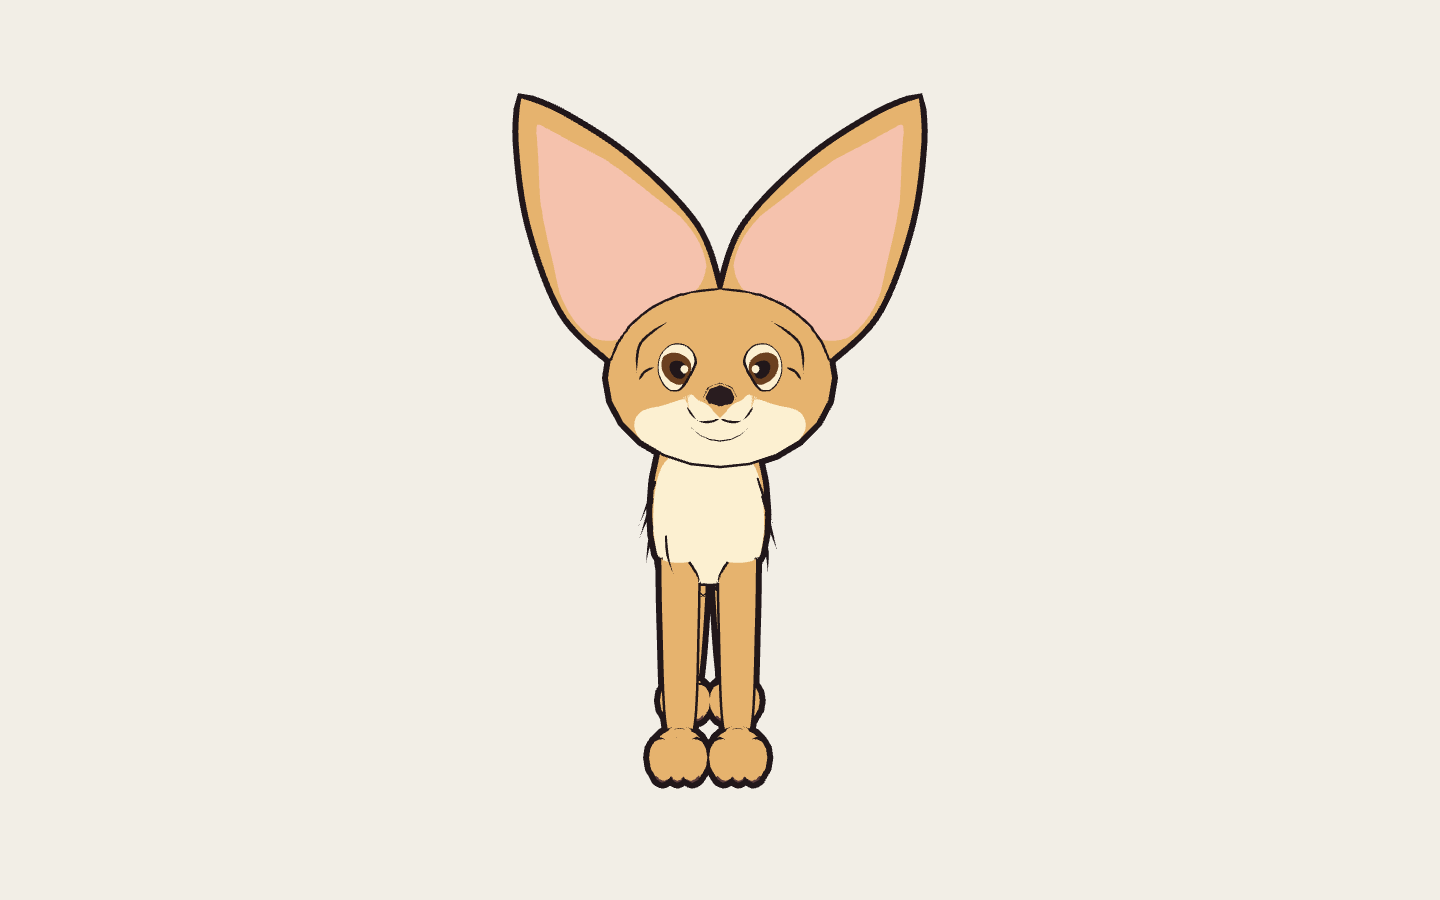
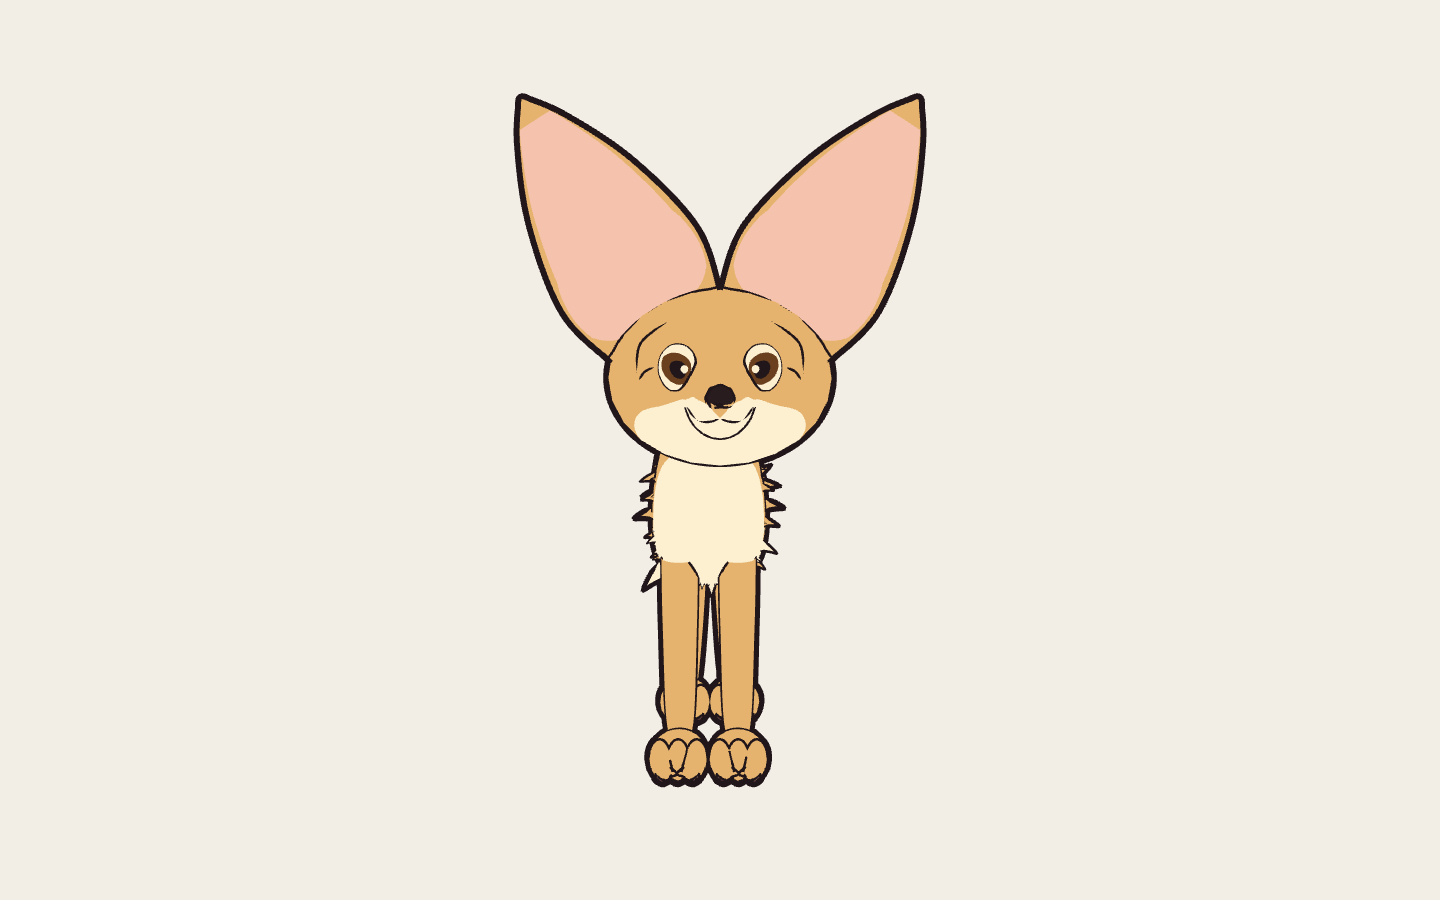
Close round 1: move boards 9 and 10 to verifiable and render the look probe again

diff --git a/docs/work/boards.md b/docs/work/boards.md
@@ -62,8 +62,8 @@ Not a screen, so it has no board in the artifact.
 
 | Board | State | Verify |
 | --- | --- | --- |
-| 9 Color and regions | building | Run: `./gradlew :app:run`. Do: open `examples/fennec.json`. See: every pane in color, fur with cream chest, muzzle and cheeks, pink inner ears. Do: arm Fill, set Mirror on, press a leg. See: both legs and the tree's swatch take the slot; set Area in the drawer and press the belly, which alone fills. Do: arm Brush, set Softness, drag from a leg up onto the torso. See: the stroke grows under the pointer with no dip at the socket, and the other leg mirrors it; one Undo takes it back. Do: arm Region border, drag a closed loop across a leg and the torso. See: a crisp region with an inked border and its row in the drawer, whose toggle takes the ink off. Do: pick a slot and drag the picker. See: everything naming it recolors. Press the Two-tone tile. See: the panes change. Test: `./gradlew :screens-surface:test --tests "*PaintSections*"`, `./gradlew :app:test --tests "*.smoke.ColorPanes*" --tests "*.smoke.SurfaceCrossing*" -Pslow` |
-| 10 Lines and fur | building | Run: `./gradlew :app:run`. Do: open `examples/fennec.json`. Look at Full and the panes, then orbit Full with the middle button. Open Lines on the right rail. Select Torso, press U and drag across the chest in Full, then orbit; move Show near, Spacing and Length in the drawer; press G and drag across the tail. Press D and drag across the chest in Full, then across the torso in Side; press Ctrl Z. Press W and drag along the flank in Full, with the ring on the surface, then orbit until that flank is on the silhouette. Open Marks, click Saddle weight and drag Amount. Click Silhouette. Press X and drag across a stroke. See: thick lines round the figure, thin lines where parts overlap and at sockets, with no ring corners at close zoom, and a heavier line along the back from any angle. Opening Lines arms Line width, and with a line tool armed the strip holds Line width (W), Fur stroke (U), Comb (G), Surface stroke (D), Erase (X) and Mirror, and the drawer reads Silhouette 4.0 px, Interior 2.0 px, Taper 55%, Size 24 px, Amount +60%, Lives on body surface, then the selected part's Fur rule. Tufts break the silhouette only near the edge and move with the body, filled in the palette color under them with ink on their edges and no line across their roots, cream on the chest; each slider changes them as one undo step; the tail's tufts turn where combed. A stroke follows the pointer, stays on the skin as the view turns and tapers at its ends; one undo removes it. The stretch you widened stays heavier as it turns. Marks lists Silhouette and Interior reading auto, Saddle weight +60%, surface strokes and fur by part with their counts. Amount changes the picked weight as you drag, one undo step, and Silhouette opens Lines. Erase takes what it crosses. Test: `./gradlew :geom:desktopTest --tests "*LineGrid*"`, `./gradlew :document:desktopTest --tests "*LineCommand*" --tests "*DocumentFormat*"`, `./gradlew :character:desktopTest --tests "*BodyLines*"`, `./gradlew :screens-surface:test --tests "*SurfaceTools*" --tests "*FurView*" --tests "*GrainField*" --tests "*FurComb*"`, `./gradlew :app:test --tests "*LinesFlow*" --tests "*FurPointerFlow*"`; `./gradlew :app:test --tests "*.smoke.OrbitSmoke*" --tests "*.smoke.LinesSmoke*" --tests "*.smoke.FurSmoke*" -Pslow` leaves `orbit-frames.png`, `lines-fennec-window.png`, `lines-strokes-window.png`, `fur-sheet.png` and `fur-workspace.png` under `app/build/smoke-images` |
+| 9 Color and regions | verifiable | Run: `./gradlew :app:run`. Do: open `examples/fennec.json`. See: every pane in color, fur with cream chest, muzzle and cheeks, pink inner ears. Do: arm Fill, set Mirror on, press a leg. See: both legs and the tree's swatch take the slot; set Area in the drawer and press the belly, which alone fills. Do: arm Brush, set Softness, drag from a leg up onto the torso. See: the stroke grows under the pointer with no dip at the socket, and the other leg mirrors it; one Undo takes it back. Do: arm Region border, drag a closed loop across a leg and the torso. See: a crisp region with an inked border and its row in the drawer, whose toggle takes the ink off. Do: pick a slot and drag the picker. See: everything naming it recolors. Press the Two-tone tile. See: the panes change. Test: `./gradlew :screens-surface:test --tests "*PaintSections*"`, `./gradlew :app:test --tests "*.smoke.ColorPanes*" --tests "*.smoke.SurfaceCrossing*" -Pslow` |
+| 10 Lines and fur | verifiable | Run: `./gradlew :app:run`. Do: open `examples/fennec.json`. Look at Full and the panes, then orbit Full with the middle button. Open Lines on the right rail. Select Torso, press U and drag across the chest in Full, then orbit; move Show near, Spacing and Length in the drawer; press G and drag across the tail. Press D and drag across the chest in Full, then across the torso in Side; press Ctrl Z. Press W and drag along the flank in Full, with the ring on the surface, then orbit until that flank is on the silhouette. Open Marks, click Saddle weight and drag Amount. Click Silhouette. Press X and drag across a stroke. See: thick lines round the figure, thin lines where parts overlap and at sockets, with no ring corners at close zoom, and a heavier line along the back from any angle. Opening Lines arms Line width, and with a line tool armed the strip holds Line width (W), Fur stroke (U), Comb (G), Surface stroke (D), Erase (X) and Mirror, and the drawer reads Silhouette 4.0 px, Interior 2.0 px, Taper 55%, Size 24 px, Amount +60%, Lives on body surface, then the selected part's Fur rule. Tufts break the silhouette only near the edge and move with the body, filled in the palette color under them with ink on their edges and no line across their roots, cream on the chest; each slider changes them as one undo step; the tail's tufts turn where combed. A stroke follows the pointer, stays on the skin as the view turns and tapers at its ends; one undo removes it. The stretch you widened stays heavier as it turns. Marks lists Silhouette and Interior reading auto, Saddle weight +60%, surface strokes and fur by part with their counts. Amount changes the picked weight as you drag, one undo step, and Silhouette opens Lines. Erase takes what it crosses. Test: `./gradlew :geom:desktopTest --tests "*LineGrid*"`, `./gradlew :document:desktopTest --tests "*LineCommand*" --tests "*DocumentFormat*"`, `./gradlew :character:desktopTest --tests "*BodyLines*"`, `./gradlew :screens-surface:test --tests "*SurfaceTools*" --tests "*FurView*" --tests "*GrainField*" --tests "*FurComb*"`, `./gradlew :app:test --tests "*LinesFlow*" --tests "*FurPointerFlow*"`; `./gradlew :app:test --tests "*.smoke.OrbitSmoke*" --tests "*.smoke.LinesSmoke*" --tests "*.smoke.FurSmoke*" -Pslow` leaves `orbit-frames.png`, `lines-fennec-window.png`, `lines-strokes-window.png`, `fur-sheet.png` and `fur-workspace.png` under `app/build/smoke-images` |
 | 11 Face marks | planned | |
 
 ## Make a shot

diff --git a/docs/work/stage-3.md b/docs/work/stage-3.md
@@ -37,19 +37,7 @@ The orchestrator then:
 
 One orchestrating session per sitting. Round 0 is serial and lands on `main` before anything fans out. Later rounds are branches in `.worktrees/`, one per row, landed by rebase, squash and fast-forward with `check` before each landing. The differences table in `docs/work/boards.md` is the list of open bugs; a branch removes each row it fixes. A session that needs a Stretch change lands it in the Stretch repo first and pushes it.
 
-### Round 1, parallel
-
-The look probe's images are in `docs/work/look-probe/`, drawn from `examples/fennec.json`. The fixes it found are in `docs/hld/look.md`: the shadow tone per slot, fur strokes as filled wedges, tufts as strokes and not outline, the silhouette as ribbons, an eye region frame.
-
-| Branch | Modules | Delivers | Board |
-| --- | --- | --- | --- |
-| `surface-strokes` | `screens-surface`, `render`, `geom` | Drawing a stroke on the surface from any camera into anchors; the Surface stroke tool; line rules (silhouette, interior, overlap inked at sockets, taper); the Line width tool and its drawer rows; the Lines and Marks drawers' list rows; the orbit smoke test | 10 |
-| `regions-paint` | `screens-surface`, `render`, `document` | The palette with slot editing and the body plan's defaults; a base slot per part, set by Fill on the part, shown in the Parts tree swatch; Brush, Fill, Region border and Pick color tools; the Color drawer with palette, template color slots, per-border ink toggles; strokes and borders crossing sockets; mirrored pairs mirroring surface work; the Flat and Two-tone previews; the Color drawer's Softness control for the Brush, setting a stroke's softness | 9 |
-| `two-tone` | `render`, `character` | Proxy normals per slice carried to the mesh; two-tone shading with one clean shadow per part; far-side darkening by pair side; the per-object shading choice | 9 |
-| `fur-grain` | `screens-surface`, `character`, `render` | The grain field with defaults per template and the comb tool; the Fur stroke tool with show-near, spacing and length; fur strokes near the silhouette from any angle | 10 |
-| `full-first` | `screens-sheet` | Layout C: the large free pane that takes surface strokes, three locked sheets beside it, the Layout control enabling it | C |
-
-### Round 2, parallel, after round 1 lands
+### Round 2, parallel
 
 | Branch | Modules | Delivers | Board |
 | --- | --- | --- | --- |
